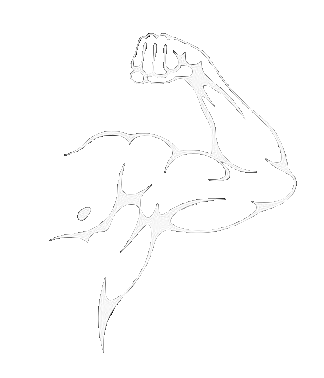
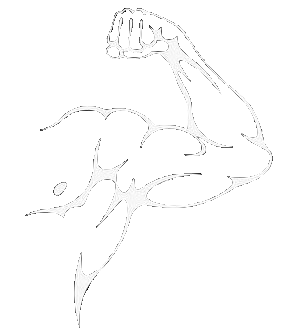
mec ar vici

diff --git a/Js/index.script.js b/Js/index.script.js
@@ -29,55 +29,6 @@ logo.addEventListener("mouseleave", () => {
     mouseCursor.classList.remove("link-grow");
 });
 
-// Page 1 (banner) hovers brah
-
-const h1Txt = document.querySelector('.banner .Give-up')
-
-h1Txt.addEventListener("mouseover", () => {
-    mouseCursor.classList.add("txt-grow");
-});
-h1Txt.addEventListener("mouseleave", () => {
-    mouseCursor.classList.remove("txt-grow");
-});
-
-const never = document.querySelector('.banner .never')
-
-never.addEventListener("mouseover", () => {
-    mouseCursor.classList.add("txt-grow");
-});
-never.addEventListener("mouseleave", () => {
-    mouseCursor.classList.remove("txt-grow");
-});
-
-const arm_muscle = document.querySelector('.banner img')
-
-arm_muscle.addEventListener("mouseover", () => {
-    mouseCursor.classList.add("txt-grow");
-});
-arm_muscle.addEventListener("mouseleave", () => {
-    mouseCursor.classList.remove("txt-grow");
-});
-
-// Page 2 hovers
-
-const introductions = document.getElementById('introduction')
-
-introductions.addEventListener("mouseover", () => {
-    mouseCursor.classList.add("txt-grow");
-});
-introductions.addEventListener("mouseleave", () => {
-    mouseCursor.classList.remove("txt-grow");
-});
-
-const introductionp = document.getElementById('introduction-p')
-
-introductionp.addEventListener("mouseover", () => {
-    mouseCursor.classList.add("txt-grow");
-});
-introductionp.addEventListener("mouseleave", () => {
-    mouseCursor.classList.remove("txt-grow");
-});
-
 const zyzz = document.querySelector('.zyzz')
 
 zyzz.addEventListener("mouseover", () => {
@@ -86,6 +37,25 @@ zyzz.addEventListener("mouseover", () => {
 zyzz.addEventListener("mouseleave", () => {
     mouseCursor.classList.remove("zyzz-grow");
 });
+
+const elements = [
+    document.querySelector('.banner .Give-up'),
+    document.querySelector('.banner .never'),
+    document.querySelector('.banner img'),
+    document.getElementById('introduction'),
+    document.getElementById('introduction-p')
+]
+
+elements.forEach( x => {
+    x.addEventListener("mouseover", () => {
+        mouseCursor.classList.add("txt-grow");
+    })
+    x.addEventListener("mouseleave", () => {
+        mouseCursor.classList.remove("txt-grow");
+    })
+});
+
+
 
 const navSlide = () => {
     const burger = document.querySelector('.burger');

diff --git a/index.html b/index.html
@@ -69,9 +69,9 @@
 
     <!-- Page 2 -->
     <div class="page2">
-        <div class="zyzz" data-aos="fade-right" data-aos-duration="1000" data-tilt></div>
-        <h1 data-aos="fade-left" data-aos-duration="1000" id="introduction">Introduction</h1>
-        <h3 data-aos="fade-left" data-aos-duration="1000" id="introduction-p"><a href="https://discord.gg/6aHrxUF4Ww">Aesthetics Unity</a>
+        <div class="zyzz" data-aos="fade-right" data-aos-duration="1500" data-tilt></div>
+        <h1 data-aos="fade-left" data-aos-duration="1500" id="introduction">Introduction</h1>
+        <h3 data-aos="fade-left" data-aos-duration="1500" id="introduction-p"><a href="https://discord.gg/6aHrxUF4Ww">Aesthetics Unity</a>
             is a discord server about healthy life. Its owner is <a
                 href="https://www.instagram.com/_vajex/">Vajex.</a> At this server you can ask any questions about your
             body, diet etc. our team will help you 😉. Also here you can find many friends, play with them, workout with

diff --git a/css/index.style.css b/css/index.style.css
@@ -187,7 +187,7 @@ nav {
 }
 
 .banner img {
-    transform: scale(0.8);
+    transform: scale(0.7);
     left: -5%;
     position: relative;
     z-index: 3;
@@ -309,7 +309,7 @@ nav {
         width: 50%;
     }
     .banner img {
-        transform: scale(0.7);
+        transform: scale(0.6);
         left: -10%;
     }
 }
@@ -319,7 +319,7 @@ nav {
         width: 55%;
     }
     .banner img {
-        transform: scale(0.7);
+        transform: scale(0.6);
         left: -15%;
         top: 3%;
     }
